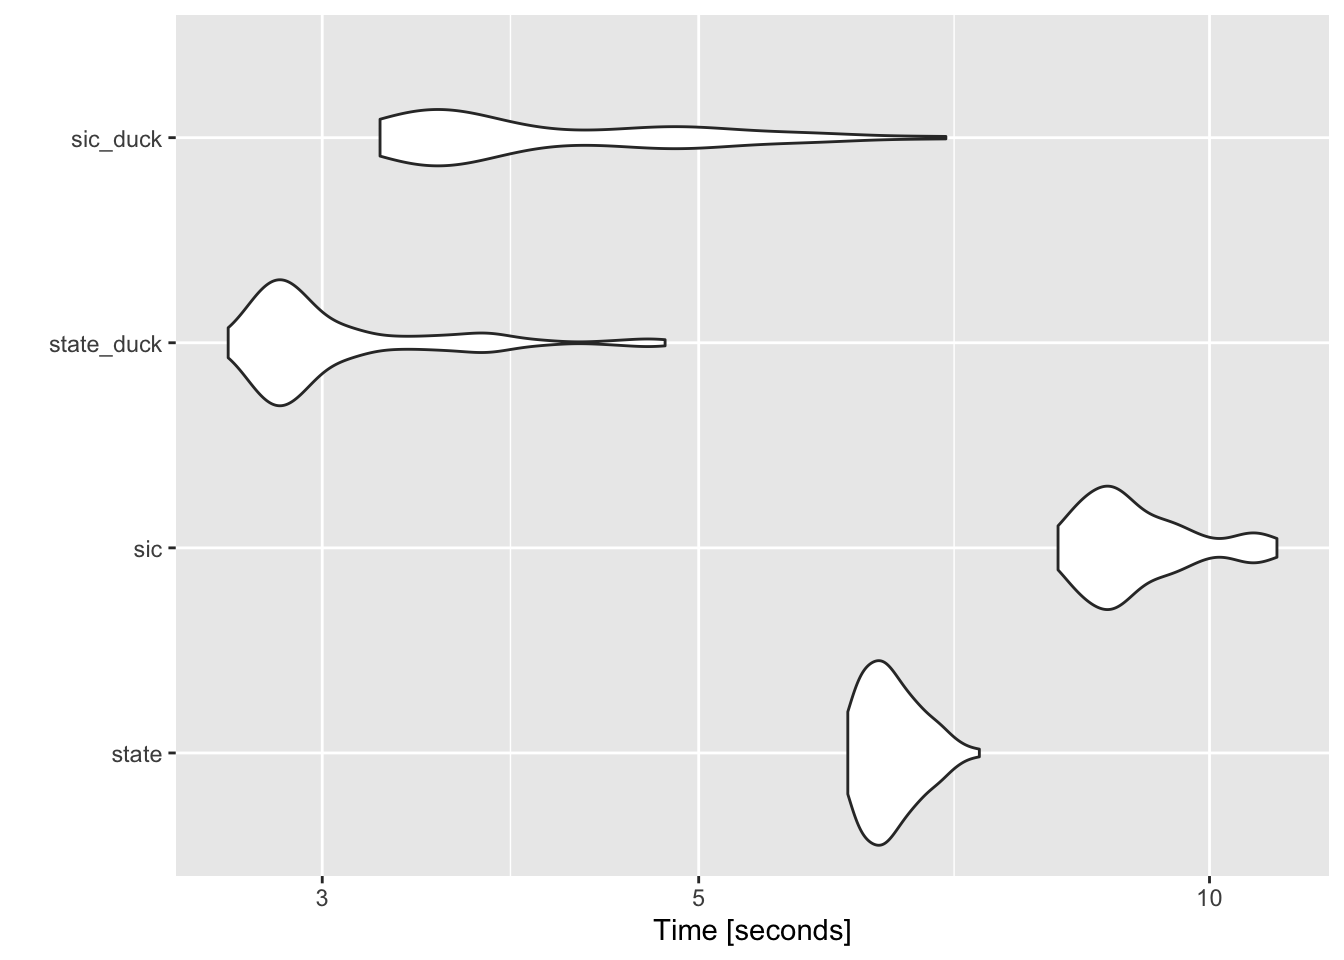
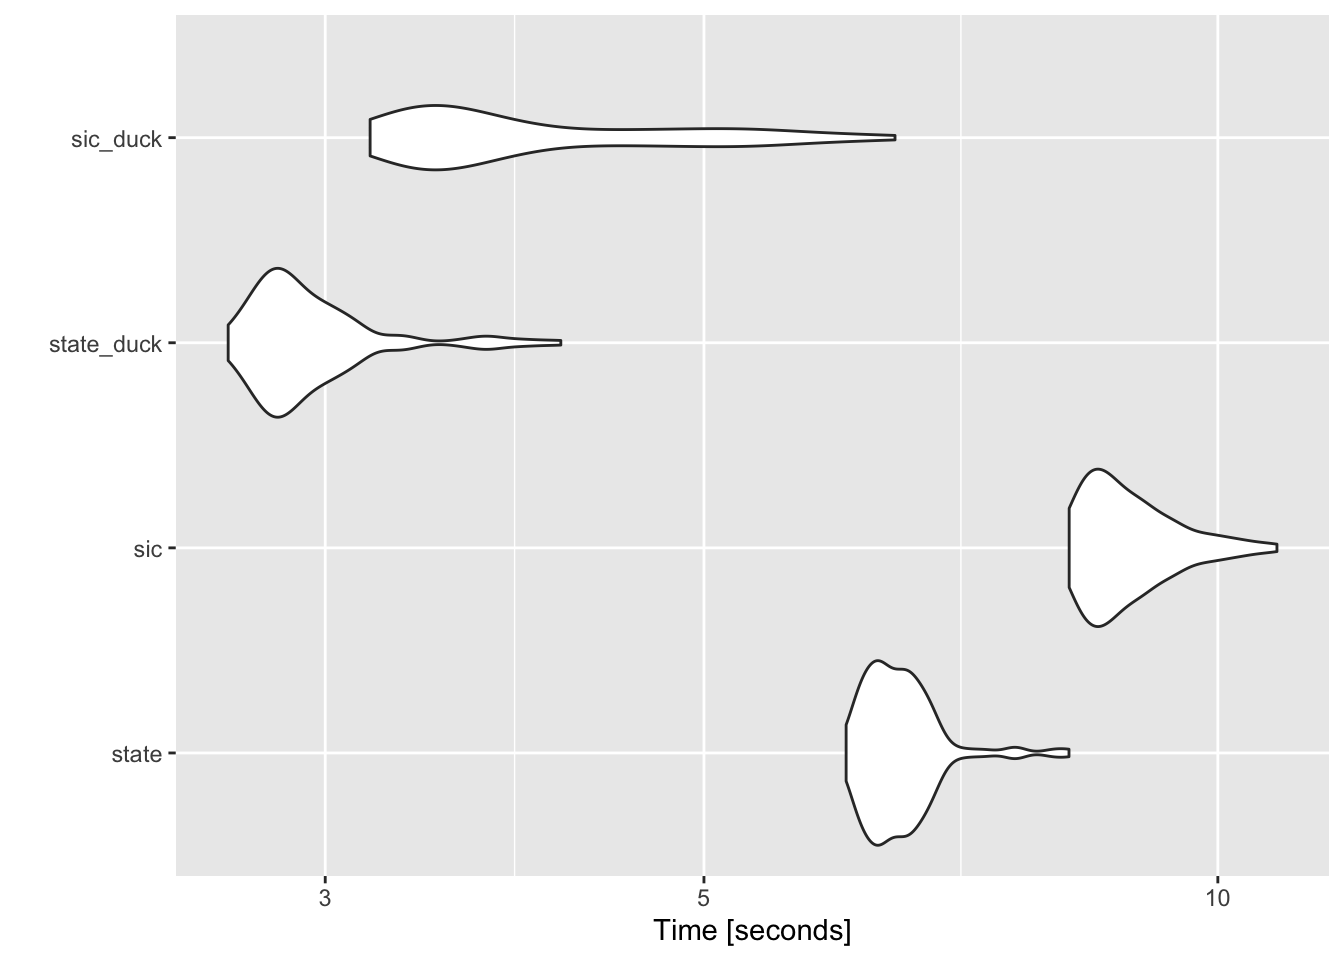
edits/rerun benchmark

diff --git a/content/post/2022-11-27-handling-larger-than-memory-dataset-with-arrow-table/index.html b/content/post/2022-11-27-handling-larger-than-memory-dataset-with-arrow-table/index.html
@@ -85,23 +85,23 @@ knitr::opts_chunk$set(echo = TRUE, warning = FALSE)</code></pre>
 </details>
 <div id="introduction" class="section level1">
 <h1>Introduction</h1>
-<p>It has been a while since <a href="https://redwallanalytics.com/2022/04/21/loading-a-large-messy-csv-using-data-table-fread-with-cli-tools/">loading Large, Messy CSV using {data.table} fread with CLI tools</a>, but there are fast developing tools, which we didn’t fully understand at the time, which make the problem discussed much more manageable. When we left off, we had used <code>scrubcsv</code> split our problematic csv into two parts, a clean 30 million-row, 28-column data set of US business addresses, and a separate 1 million-rows with 22 or fewer columns. It was interesting to see what could be done on the CLI, but stacking the two significantly different subsets seemed cumbersome, considering varying column names and types, when one would not fit in memory. The objective of this posting will be to explore how to load the two pieces of our address data into arrow tables, standardize variable types, stack and queries. One of the main themes of this blog all along has been, how to become as agnostic as possible to data size, it feels like this moment may have arrived with <code>{arrow}</code> and <code>{duckdb}</code>.</p>
+<p>It has been a while since <a href="https://redwallanalytics.com/2022/04/21/loading-a-large-messy-csv-using-data-table-fread-with-cli-tools/">loading Large, Messy CSV using {data.table} fread with CLI tools</a>, but there are fast developing tools, which we didn’t fully understand at the time, making the problem discussed more manageable. When we left off, we had used <code>scrubcsv</code> split our problematic csv into two parts, a clean 30 million-row, 28-column data set of US business addresses, and a separate 1 million-rows with 22 or fewer columns. It was interesting to see what could be done on the CLI, but stacking the two significantly different subsets seemed cumbersome, considering varying column names and types, when one would not fit in memory. The objective of this posting will be to explore how to load the two pieces of our address data into arrow tables, standardize variable types, stack and queries. One of the main themes of this blog all along has been, how to become as agnostic as possible to data size, it feels like this moment may have arrived with <code>{arrow}</code> and <code>{duckdb}</code>.</p>
 </div>
 <div id="other-resources" class="section level1">
 <h1>Other Resources</h1>
 <p>We usually try to give credit to commentators who have made our learning possible, so here are a few that have made this post possible:</p>
 <ul>
 <li><a href="https://arrow-user2022.netlify.app/packages-and-data.html">Apache Arrow in R</a></li>
+<li><a href="https://arrow.apache.org/cookbook/r/">Apache Arrow Cookbook</a></li>
 <li><a href="https://blog.djnavarro.net/#category=Apache%20Arrow">Notes from a data witch</a></li>
 <li><a href="https://www.christophenicault.com/post/large_dataframe_arrow_duckdb/">Manipulate big data with Arrow &amp; DuckDB</a></li>
-<li><a href="https://arrow.apache.org/cookbook/r/">Apache Arrow Cookbook</a></li>
 <li><a href="https://duckdb.org">DuckDB is an in-process SQL OLAP database management system</a></li>
 <li><a href="https://emilyriederer.netlify.app/post/duckdb-carolina/">Goin’ to Carolina in my mind (or on my hard drive)</a></li>
 </ul>
 </div>
 <div id="loading-an-arrow-table" class="section level1">
 <h1>Loading an <code>{arrow}</code> Table</h1>
-<p>First, we load the larger 30 million row clean data set, which has 28 columns with <code>{arrow}</code>’s <code>read_csv_arrow()</code>. In the previous post, we were using a 2015 iMac with 8G of RAM, and now, our new MacBook Air m1 with 16G of RAM. When we ran the same function on the older iMac taking the data instead as data.frame, the same data took almost 10 minutes to load, but on the new machine, it took about 1 minute (so the time savings are about 90% from the m1). We also tried to load on the m1 as a data.table with <code>fread()</code>, but gave up after about 15 minutes. Here, we will actually choose the option to take the input as an <code>{arrow}</code> table (setting as_data_frame = FALSE), which reduces load time takes a little further to 45 seconds. As an <code>{arrow}</code> table, the 7G of data takes up only 283kB of memory to be accessed via <code>{dplyr}</code> in RStudio. In the context of this size of data and machine, <code>{data.table}</code> doesn’t seem like a viable solution compared to <code>{arrow}</code> either as a data.frame or an <code>{arrow}</code> table, much as we love it.</p>
+<p>First, we load the larger 30 million row clean data set, which has 28 columns with <code>{arrow}</code>’s <code>read_csv_arrow()</code>. In the previous post, we were using a 2015 iMac with 8G of RAM, and now, our new MacBook Air m1 with 16G of RAM. When we ran the same function on the older iMac taking the data instead as data.frame, the same data took almost 10 minutes to load, but on the new machine, it took about 1 minute (so the time savings are about 90% from the m1). We also tried to load on the m1 as a data.table with <code>fread()</code>, but gave up after about 15 minutes. Here, we will actually choose the option to take the input as an <code>{arrow}</code> table (setting as_data_frame = FALSE), which reduces load time takes a little further to 45 seconds. As an <code>{arrow}</code> table, the 7G of data takes up only 283kB of memory to be accessed via <code>{dplyr}</code> in RStudio. In the context of this size of data and machine, <code>{data.table}</code> doesn’t seem like a viable solution compared to <code>{arrow}</code>, either as a data.frame or an <code>{arrow}</code> table, much as we love it.</p>
 <pre class="r"><code>tic()
 cleaned_arrow &lt;- 
   arrow::read_csv_arrow(paste0(uscompany, &quot;scrubbed.csv&quot;), as_data_frame = FALSE)
@@ -137,7 +137,7 @@ cleaned_arrow</code></pre>
 ## $NAICS_NUMBER &lt;int64&gt;
 ## $INDUSTRY &lt;string&gt;</code></pre>
 <pre class="r"><code>toc()</code></pre>
-<pre><code>## 45.465 sec elapsed</code></pre>
+<pre><code>## 46.51 sec elapsed</code></pre>
 <pre class="r"><code>lobstr::obj_size(cleaned_arrow)</code></pre>
 <pre><code>## 283.62 kB</code></pre>
 </div>
@@ -148,7 +148,7 @@ cleaned_arrow</code></pre>
   try(arrow::read_csv_arrow(paste0(uscompany, &quot;bad_scrub_data.csv&quot;)))</code></pre>
 <pre><code>## Error in (function (file, delim = &quot;,&quot;, quote = &quot;\&quot;&quot;, escape_double = TRUE,  : 
 ##   Invalid: CSV parse error: Expected 22 columns, got 19: &quot;Ahlstrom, aaron&quot;,6282,FINANCIAL ADVISORY SERVICES,753 ameriprise financial ctr,Minneapolis,MN,5 ...</code></pre>
-<p>So, we will back to <code>scrubscv</code> and <code>{data.table}</code> <code>fread()</code>, piping the command line function into <code>fread()</code>. We can see that the 1 million rows with the retained 22 columns takes about a second to load, with an additional 5,598 rows thrown out by <code>scrubcsv</code> for having non-standard columns. For this amount of data, it is hard to think of a better option!</p>
+<p>So, we will back to <code>scrubscv</code> and <code>{data.table}</code>, piping the command line function into <code>fread()</code>. We can see that the 1 million rows with the retained 22 columns takes about a second to load, with an additional 5,598 rows thrown out by <code>scrubcsv</code> for having non-standard columns. For this amount of data, it is hard to think of a better option!</p>
 <pre class="r"><code>cmd &lt;- glue(&quot;scrubcsv { paste0(uscompany, &#39;bad_scrub_data.csv&#39;) }&quot;)
 bad_data &lt;- fread(cmd= cmd)</code></pre>
 <p>As mentioned previously, <code>scrubcsv</code> takes bad rows (ie: less than 22 columns in this case) and throws them out. It also doesn’t import column names with the discarded rows, so these have to be manually added after the fact, and since the table scan will be a significantly different amount of rows, it seems reasonable to expect some types may vary. We threw out the names of columns which were missing from bad_data, and then mapped to the appropriate column names in cleaned_arrow so that we could stack.</p>
@@ -163,14 +163,18 @@ names(bad_data) &lt;-
       &quot;NAICS_NUMBER&quot;,
       &quot;INDUSTRY&quot;
     )]</code></pre>
-<p>For next part, we had quite a few false starts before we figured it out. <code>{arrow}</code> allows to bind rows, but column names have to match and have the same data types. If we wanted to be more precise, we might change some of the column types {arrow} chose for cleaned_arrow. For example, {arrow} chose Utf8 for the LON/LAT columns, which wasn’t what we expected because they clearly seemed to be numeric. It is possible to convert data types in arrow tables, but it was not nearly as straightforward for us as doing it <code>{data.table}</code> before converting to the <code>{arrow}</code> table.</p>
+<p>For next part, we had quite a few false starts before we figured it out. <code>{arrow}</code> allows to bind rows, but column names have to match, and columns have the same data types. If we wanted to be picky, we might change some of the column types {arrow} chose for cleaned_arrow. For example, {arrow} chose Utf8 for the LON/LAT columns, which wasn’t what we expected, because they seemed to be numeric. For the definitive discussion of <code>{arrow}</code> data types though, please see <a href="https://blog.djnavarro.net/posts/2022-03-04_data-types-in-arrow-and-r/">Data types in Arrow and R</a>. It is possible to convert data types in arrow tables, but it was not nearly as straightforward for us as doing it with <code>{data.table}</code> before converting to <code>{arrow}</code>.</p>
 <pre class="r"><code># Convert integers, character and numeric to align with arrow types in cleaned_arrow
 convert_ints &lt;- 
   c(&quot;SIC_CODE&quot;, &quot;ZIP&quot;, &quot;TOTAL_EMPLOYEES&quot;)
-bad_data[, (convert_ints) := lapply(.SD, bit64::as.integer64), .SDcols = convert_ints]
+bad_data[
+  , (convert_ints) := lapply(.SD, bit64::as.integer64)
+  , .SDcols = convert_ints]
 convert_utf8 &lt;-
   c(&quot;CONTACT_FULLNAME&quot;, &quot;CONTACT_GENDER&quot;, &quot;LONGITUDE&quot;, &quot;LATITUDE&quot;)
-bad_data[, (convert_utf8) := lapply(.SD, as.character), .SDcols = convert_utf8]
+bad_data[
+  , (convert_utf8) := lapply(.SD, as.character)
+  , .SDcols = convert_utf8]
 bad_data[, SALES_VOLUME := as.numeric(SALES_VOLUME)]</code></pre>
 <p>After some false starts, we learned that by mapping R integer types to <code>{arrow}</code> int64, character to Utf8 and numeric to double, everything worked, and the conversion from <code>{data.table}</code> to <code>{arrow}</code> takes only an instant, so again timing is not shown.</p>
 <pre class="r"><code># Convert to arrow table
@@ -205,7 +209,8 @@ bad_data_arrow</code></pre>
 ## See $metadata for additional Schema metadata</code></pre>
 <p>At first, we thought we might have to add the 6 missing columns and set the column order of bad_data_arrow to match those in cleaned_arrow, but it seems to work without adjusting column order or instructions to fill empty rows. Stacking the two data sets only takes an instant (so we are again not showing timing), and gives almost the full 31 million row data set we originally set out to load.</p>
 <pre class="r"><code># Clean up and bind arrow tables
-full_data &lt;- arrow::concat_tables(cleaned_arrow, bad_data_arrow)
+full_data &lt;- 
+  arrow::concat_tables(cleaned_arrow, bad_data_arrow)
 full_data</code></pre>
 <pre><code>## Table
 ## 31337290 rows x 28 columns
@@ -282,7 +287,7 @@ test_agg(full_data, agg_var=STATE)</code></pre>
 ##  9 NJ     730344
 ## 10 VA     617868</code></pre>
 <pre class="r"><code>toc()</code></pre>
-<pre><code>## 10.468 sec elapsed</code></pre>
+<pre><code>## 10.232 sec elapsed</code></pre>
 <p>So here, we benchmark four queries, aggregating on STATE and SIC_DESCRIPTION with and without duckdb. The big surprise here was how big an impact <code>{duckdb}</code> had with so little effort, reducing query time by 55-60%. It also seemed to make the query run with much less variability, but will leave that to the experts to explain.</p>
 <details>
 <summary>
@@ -290,18 +295,22 @@ See code
 </summary>
 <pre class="r"><code># Microbenchmark on 100 iterations
 mbm &lt;- microbenchmark::microbenchmark(
-  &quot;state&quot; = test_agg(full_data, agg_var = STATE),
-  &quot;sic&quot; = test_agg(full_data, agg_var = SIC_DESCRIPTION),
-  &quot;state_duck&quot; = test_agg(full_data, agg_var = STATE, duck=TRUE),
-  &quot;sic_duck&quot; = test_agg(full_data, agg_var = SIC_DESCRIPTION, duck=TRUE)
+  &quot;state&quot; = 
+    test_agg(full_data, agg_var = STATE),
+  &quot;sic&quot; = 
+    test_agg(full_data, agg_var = SIC_DESCRIPTION),
+  &quot;state_duck&quot; = 
+    test_agg(full_data, agg_var = STATE, duck=TRUE),
+  &quot;sic_duck&quot; = 
+    test_agg(full_data, agg_var = SIC_DESCRIPTION, duck=TRUE)
 )
 mbm</code></pre>
 <pre><code>## Unit: seconds
 ##        expr      min       lq     mean   median       uq       max neval  cld
-##       state 6.121328 6.301117 6.502608 6.440948 6.669132  7.317626   100   c 
-##         sic 8.142125 8.547280 9.078264 8.827122 9.418389 10.958355   100    d
-##  state_duck 2.640490 2.793469 3.070989 2.886876 3.121399  4.777160   100 a   
-##    sic_duck 3.244759 3.459508 4.102692 3.673626 4.748710  6.992540   100  b</code></pre>
+##       state 6.056958 6.286558 6.523313 6.466869 6.644930  8.180928   100   c 
+##         sic 8.182955 8.462961 8.887354 8.731248 9.126058 10.829854   100    d
+##  state_duck 2.631874 2.780492 2.952274 2.868356 3.022069  4.122147   100 a   
+##    sic_duck 3.187233 3.409475 4.021427 3.623329 4.506526  6.469794   100  b</code></pre>
 </details>
 <pre><code>## Coordinate system already present. Adding new coordinate system, which will
 ## replace the existing one.</code></pre>
@@ -322,7 +331,8 @@ p &lt;- ggplot2::ggplot(mbm1,
     color = factor(expr)
   )) +
   geom_line() +
-  scale_y_continuous(labels = scales::label_number(scale = 1e-9)) +
+  scale_y_continuous(
+    labels = scales::label_number(scale = 1e-9)) +
   labs(x = &quot;Trial&quot;,
        y = &quot;Time [seconds]&quot;)</code></pre>
 </details>
@@ -330,5 +340,5 @@ p &lt;- ggplot2::ggplot(mbm1,
 </div>
 <div id="conclusion" class="section level1">
 <h1>Conclusion</h1>
-<p>Based on this analysis, <code>{arrow}</code> offers a big jump in flexibility about the kind of analysis which can be conducted, seamlessly with the same work flow, from a small machine. The ease with which one line of <code>{duckdb}</code> code reduced query time, also seems to justify all the raving on Twitter about <code>{duckdb}</code>, but possibly more excitement about <code>{arrow}</code> and the way it dovetails with everything RStudio has already created may warranted. We haven’t shown here, but also saved the data as parquet, and ran queries against it in the <code>{duckdb}</code> CLI with <code>read_parquet()</code>, and got the sense that responses were even faster (despite whatever ingestion time was needed), but maybe that may be for a future post. We cannot express enough gratitude to RStudio, and to all the people who have developed <code>{arrow}</code> and <code>{duckdb}</code> at this breakneck speed</p>
+<p>Based on this analysis, <code>{arrow}</code> offers a big jump in flexibility around the kind of analysis which can be conducted, seamlessly with the same work flow, from a small machine. The ease with which one line of code, <code>{duckdb}</code> significantly reduced query time, justifying for us a lot of the raving on Twitter. Possibly more excitement about <code>{arrow}</code> and the way it dovetails with everything RStudio has already created may warranted. We haven’t shown here, but also saved the data as parquet, and ran queries against it in the <code>{duckdb}</code> CLI with <code>read_parquet()</code>, and got the sense that responses were even faster (despite whatever ingestion time was needed), but maybe that may be for a future post. We cannot express enough gratitude to RStudio, and to all the people who have developed <code>{arrow}</code> and <code>{duckdb}</code> at this breakneck speed</p>
 </div>
